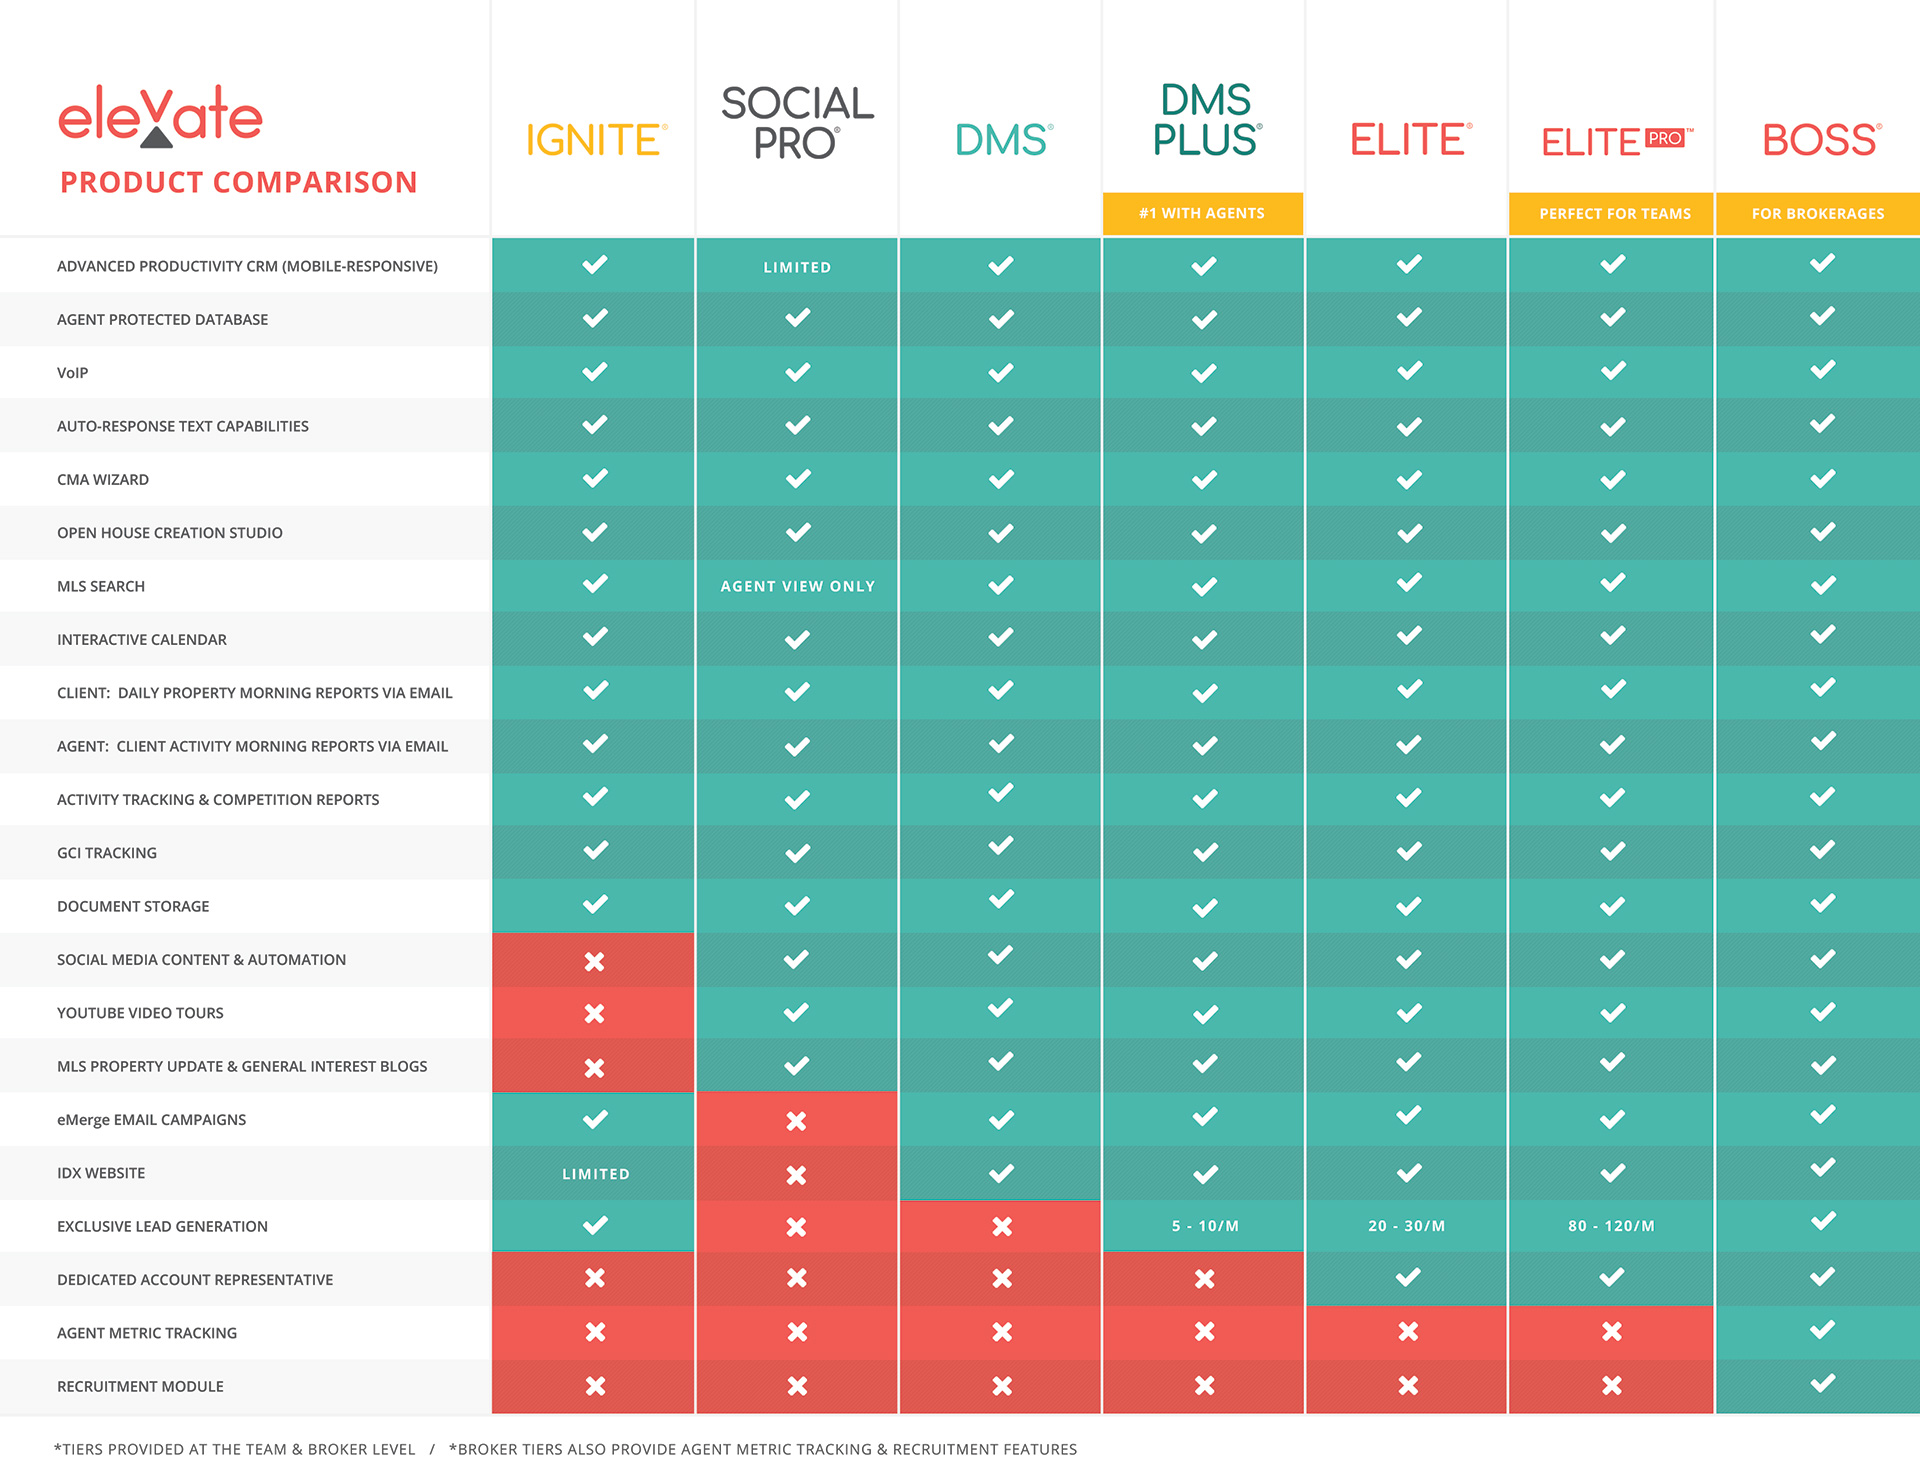
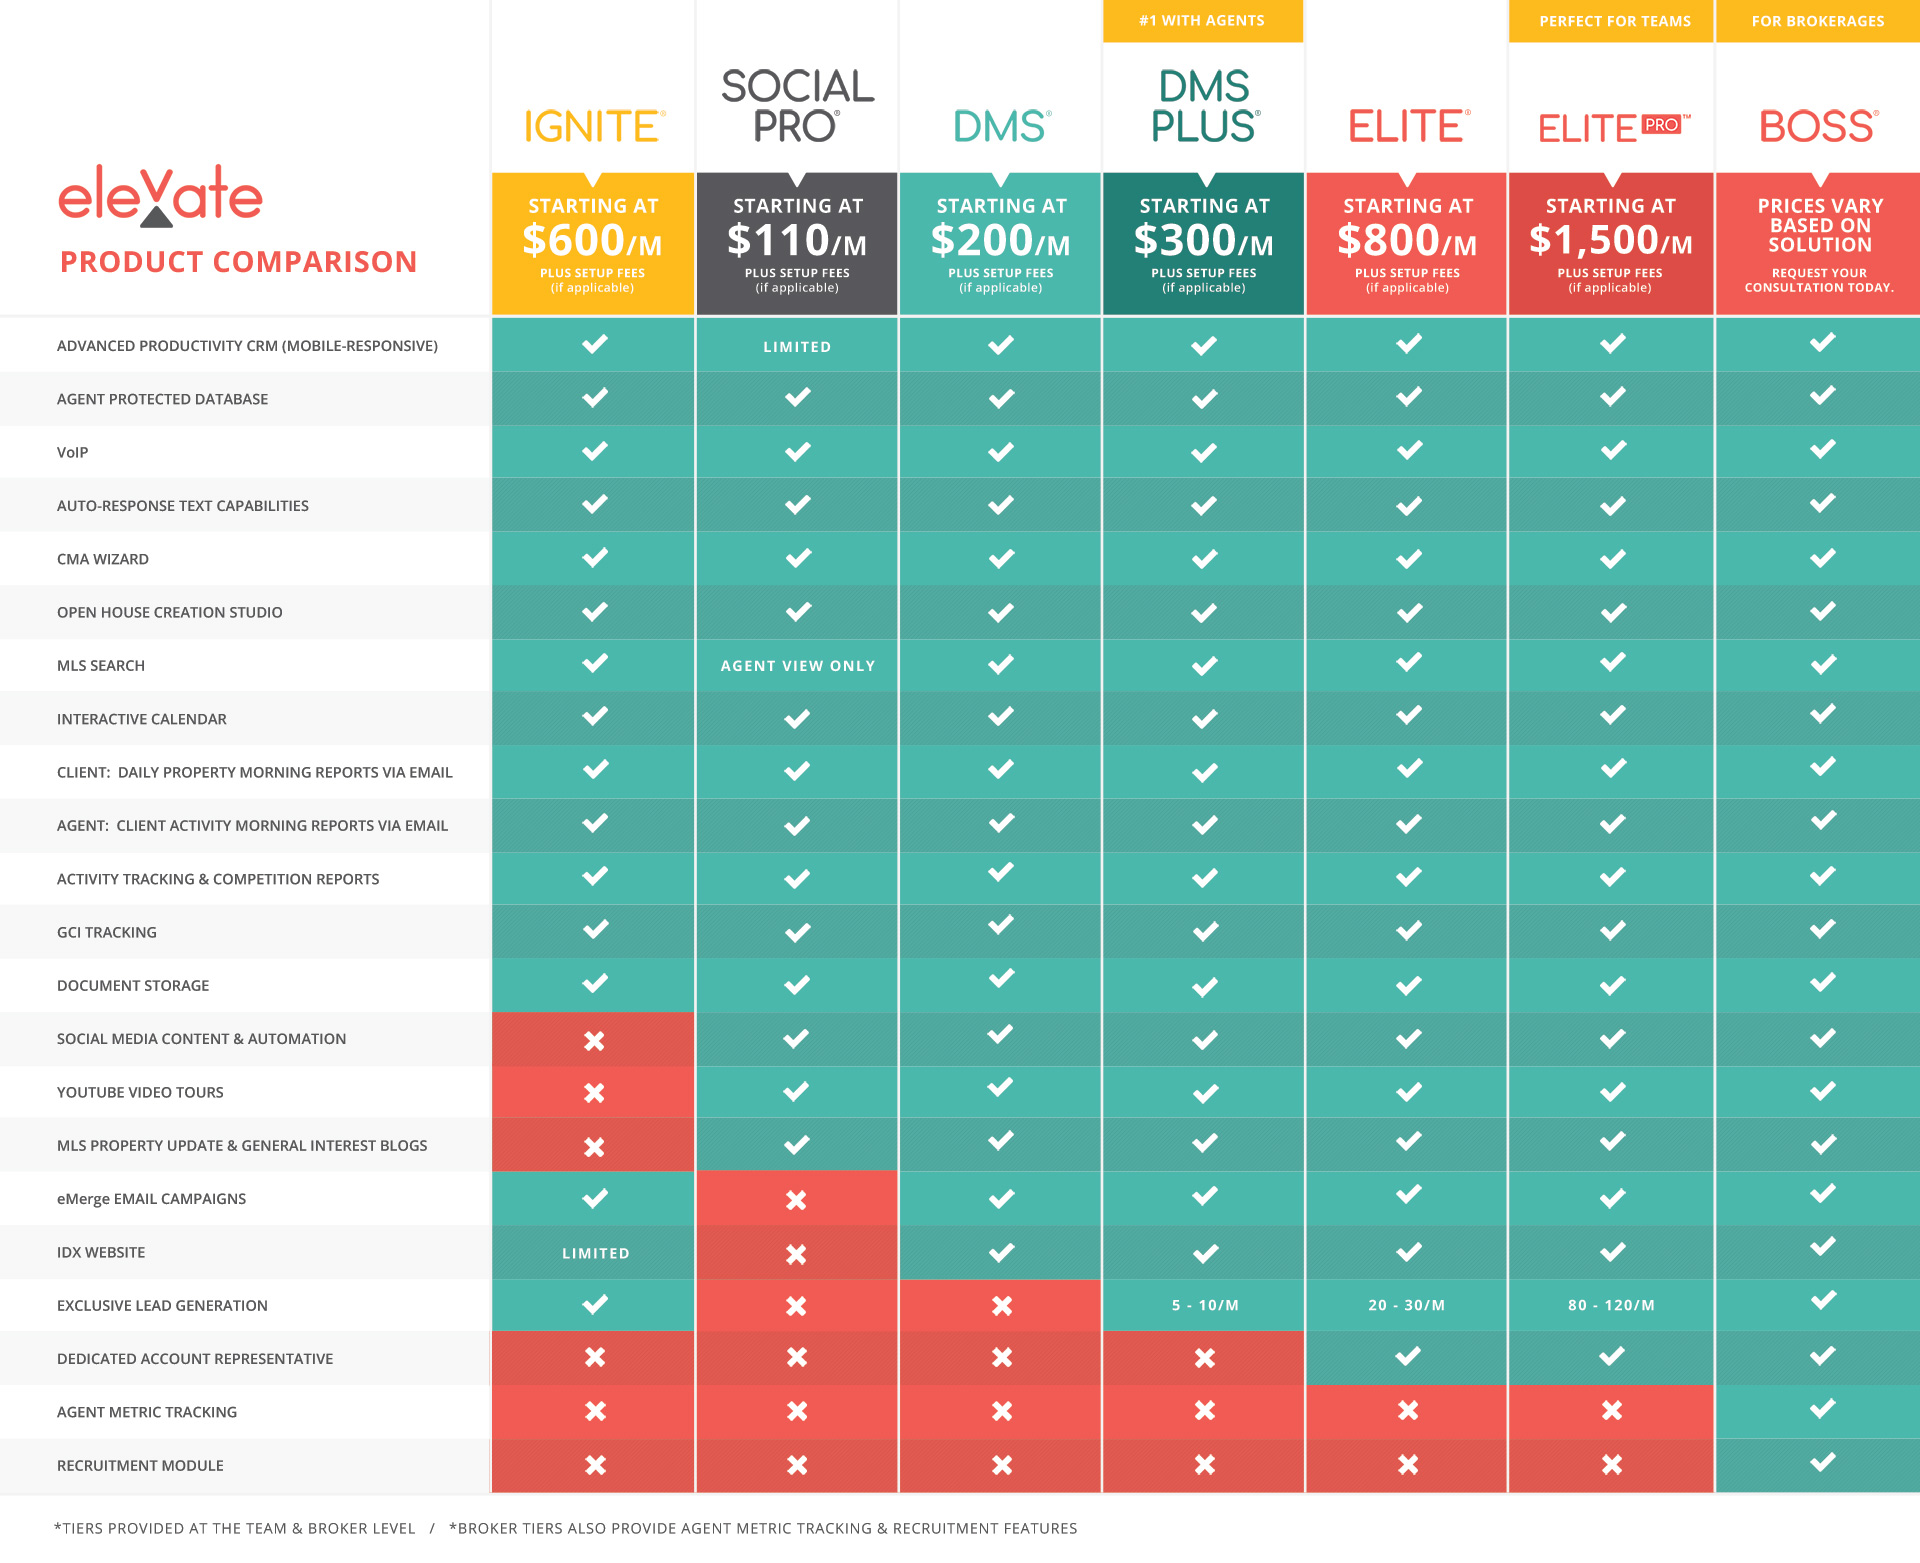
price adds to site

diff --git a/src/pages/elevatedms.js b/src/pages/elevatedms.js
@@ -8,6 +8,7 @@ import FormProduct from "../components/FormProduct";
 import Dmsbg from "../images/dmsbg.jpg";
 import Fadebg from "../images/fadebg.jpg";
 import Dmslogo from "../images/dmslogo.png";
+import Dmsprice from "../images/dms_price.png";
 import Dmsstar from "../images/dmsstar.png";
 import Quote from "../images/quote.png";
 import Sp1 from "../images/sp1.png";
@@ -49,16 +50,24 @@ const Dms = ({ children, classes, data, tags }) => {
 
       <div className={classes.top}  style={{paddingBottom:"50px",}}>
 
-             <div className={classes.column2} style={{ textAlign: "center", paddingBottom: "10px" }}>
+
+      <div className={classes.column3} style={{ textAlign: "center", paddingBottom: "10px" }}>
+      <img src={Dmsprice} width="100%"  style={{maxWidth:"280px"}} />
+            </div>
+      
+
+             <div className={classes.column3} style={{ textAlign: "center", paddingBottom: "10px" }}>
                  <a href="#demo" className={classes.buttonLink}>Request Demo</a>
             </div>
+
+            
 {/*
             <div className={classes.column3} style={{ textAlign: "center", paddingBottom: "10px" }}>
                 <a target="_blank" href="https://elmstreettechnology.recurly.com/subscribe/edigitalmarketingsystem" className={classes.buttonLink}>Subscribe Today</a>
             </div>
             */}
 
-            <div className={classes.column2} style={{ textAlign: "center", paddingBottom: "10px" }}>
+            <div className={classes.column3} style={{ textAlign: "center", paddingBottom: "10px" }}>
                 <a target="_blank" href="/compare_products" className={classes.buttonLink}>Compare Products</a>
             </div>
 
@@ -287,6 +296,7 @@ export default withStyles((theme) => ({
     alignItems: "top",
   },
 
+
   heading: {
     fontSize: "33px",
     fontWeight: "700",
@@ -323,7 +333,8 @@ export default withStyles((theme) => ({
     maxWidth: "100%",
     paddingRight:"10px",
     paddingLeft:"10px",
-    verticalAlign: "top",
+    verticalAlign: "center",
+    alignItems: "center",
   },
 
   bold:{
@@ -375,6 +386,10 @@ export default withStyles((theme) => ({
     borderRadius: "4px",
     margin: "16px auto",
     marginBottom: "10px",
+
+    [theme.breakpoints[900]]: {
+      marginTop: "34px",
+  },
   },
 
   flexContainer: {

diff --git a/src/pages/socialpro.js b/src/pages/socialpro.js
@@ -7,6 +7,7 @@ import BgSectionExternal3 from "../components/BgSectionExternal3";
 import Sprobg from "../images/sprobg.jpg";
 import Fadebg from "../images/fadebg.jpg";
 import Sprologo from "../images/sprologo.png";
+import Sproprice from "../images/sp_price.png";
 import Quote from "../images/quote.png";
 import Sp1 from "../images/sp1.png";
 import Sp2 from "../images/sp2.png";
@@ -19,13 +20,13 @@ import FormProduct from "../components/FormProduct";
 
 const Socialpro = ({ children, classes, data, tags }) => {
   const postNode = {
-      title: `Elevate Social ProTM - ${config.siteTitle}`,
+      title: `Elevate Social Pro - ${config.siteTitle}`,
   };
 
   return (
 <div className={classes.root}>
       <Helmet>
-              <title>{`Elevate Social ProTM - ${config.siteTitle}`}</title>
+              <title>{`Elevate Social Pro - ${config.siteTitle}`}</title>
       </Helmet>
       <SEO postNode={postNode} pagePath="Socialpro" customTitle />
 
@@ -42,7 +43,12 @@ const Socialpro = ({ children, classes, data, tags }) => {
 
       <div className={classes.top}  style={{paddingBottom:"50px",}}>
 
-             <div className={classes.column2} style={{ textAlign: "center", paddingBottom: "10px" }}>
+
+      <div className={classes.column3} style={{ textAlign: "center", paddingBottom: "10px" }}>
+      <img src={Sproprice} width="100%"  style={{maxWidth:"280px"}} />
+            </div>
+
+             <div className={classes.column3} style={{ textAlign: "center", paddingBottom: "10px" }}>
                  <a href="#demo" className={classes.buttonLink}>Request Demo</a>
             </div>
 
@@ -52,7 +58,7 @@ const Socialpro = ({ children, classes, data, tags }) => {
             </div>
             */}
 
-            <div className={classes.column2} style={{ textAlign: "center", paddingBottom: "10px" }}>
+            <div className={classes.column3} style={{ textAlign: "center", paddingBottom: "10px" }}>
                 <a target="_blank" href="/compare_products" className={classes.buttonLink}>Compare Products</a>
             </div>
 
@@ -329,6 +335,10 @@ export default withStyles((theme) => ({
     borderRadius: "4px",
     margin: "16px auto",
     marginBottom: "10px",
+
+    [theme.breakpoints[900]]: {
+      marginTop: "34px",
+    },
   },
 
   flexContainer: {

diff --git a/src/pages/elite.js b/src/pages/elite.js
@@ -8,6 +8,7 @@ import FormProduct from "../components/FormProduct";
 import Elitebg from "../images/elitebg.jpg";
 import Fadebg from "../images/fadebg.jpg";
 import Elitelogo from "../images/elitelogo.png";
+import Eliteprice from "../images/elite_price.png";
 import Elitestar from "../images/elitestar.png";
 import Quote from "../images/quote.png";
 import Ppc from "../images/prodppc.png";
@@ -50,7 +51,11 @@ const Elite = ({ children, classes, data, tags }) => {
 
       <div className={classes.top}  style={{paddingBottom:"50px",}}>
 
-             <div className={classes.column2} style={{ textAlign: "center", paddingBottom: "10px" }}>
+      <div className={classes.column3} style={{ textAlign: "center", paddingBottom: "10px" }}>
+      <img src={Eliteprice} width="100%"  style={{maxWidth:"280px"}} />
+            </div>
+
+             <div className={classes.column3} style={{ textAlign: "center", paddingBottom: "10px" }}>
                  <a href="#demo" className={classes.buttonLink}>Request Demo</a>
             </div>
 {/*
@@ -58,7 +63,7 @@ const Elite = ({ children, classes, data, tags }) => {
                 <a target="_blank" href="https://elmstreettechnology.recurly.com/subscribe/elevateelite" className={classes.buttonLink}>Subscribe Today</a>
             </div>
 */}
-            <div className={classes.column2} style={{ textAlign: "center", paddingBottom: "10px" }}>
+            <div className={classes.column3} style={{ textAlign: "center", paddingBottom: "10px" }}>
                 <a target="_blank" href="/compare_products" className={classes.buttonLink}>Compare Products</a>
             </div>
 
@@ -398,6 +403,10 @@ export default withStyles((theme) => ({
     borderRadius: "4px",
     margin: "16px auto",
     marginBottom: "10px",
+
+    [theme.breakpoints[900]]: {
+      marginTop: "34px",
+    },
   },
 
   flexContainer: {

diff --git a/src/pages/elitepro.js b/src/pages/elitepro.js
@@ -8,6 +8,7 @@ import FormProduct from "../components/FormProduct";
 import Eliteprobg from "../images/eliteprobg.jpg";
 import Fadebg from "../images/fadebg.jpg";
 import Eliteprologo from "../images/eliteprologo.png";
+import Eliteproprice from "../images/elitepro_price.png";
 import Eprostar from "../images/eprostar.png";
 import Quote from "../images/quote.png";
 import Ppc from "../images/prodppc.png";
@@ -53,7 +54,12 @@ const Elitepro = ({ children, classes, data, tags }) => {
 
       <div className={classes.top}  style={{paddingBottom:"50px",}}>
 
-             <div className={classes.column2} style={{ textAlign: "center", paddingBottom: "10px" }}>
+
+      <div className={classes.column3} style={{ textAlign: "center", paddingBottom: "10px" }}>
+      <img src={Eliteproprice} width="100%"  style={{maxWidth:"280px"}} />
+            </div>
+
+             <div className={classes.column3} style={{ textAlign: "center", paddingBottom: "10px" }}>
                  <a href="#demo" className={classes.buttonLink}>Request Demo</a>
             </div>
 {/*
@@ -62,7 +68,7 @@ const Elitepro = ({ children, classes, data, tags }) => {
             </div>
             */}
 
-            <div className={classes.column2} style={{ textAlign: "center", paddingBottom: "10px" }}>
+            <div className={classes.column3} style={{ textAlign: "center", paddingBottom: "10px" }}>
                 <a target="_blank" href="/compare_products" className={classes.buttonLink}>Compare Products</a>
             </div>
 
@@ -428,6 +434,10 @@ export default withStyles((theme) => ({
     borderRadius: "4px",
     margin: "16px auto",
     marginBottom: "10px",
+
+    [theme.breakpoints[900]]: {
+      marginTop: "34px",
+    },
   },
 
   flexContainer: {

diff --git a/src/pages/dmsplus.js b/src/pages/dmsplus.js
@@ -8,6 +8,7 @@ import FormProduct from "../components/FormProduct";
 import Dmsplusbg from "../images/dmsplusbg.jpg";
 import Fadebg from "../images/fadebg.jpg";
 import Dmspluslogo from "../images/dmspluslogo.png";
+import Dmsplusprice from "../images/dmsplus_price.png";
 import Plusstar from "../images/plusstar.png";
 import Quote from "../images/quote.png";
 import Ppc from "../images/prodppc.png";
@@ -50,7 +51,11 @@ const Dmsplus = ({ children, classes, data, tags }) => {
 
       <div className={classes.top}  style={{paddingBottom:"50px",}}>
 
-             <div className={classes.column2} style={{ textAlign: "center", paddingBottom: "10px" }}>
+      <div className={classes.column3} style={{ textAlign: "center", paddingBottom: "10px" }}>
+      <img src={Dmsplusprice} width="100%"  style={{maxWidth:"280px"}} />
+            </div>
+
+             <div className={classes.column3} style={{ textAlign: "center", paddingBottom: "10px" }}>
                  <a href="#demo" className={classes.buttonLink}>Request Demo</a>
             </div>
 {/*
@@ -59,7 +64,7 @@ const Dmsplus = ({ children, classes, data, tags }) => {
             </div>
             */}
 
-            <div className={classes.column2} style={{ textAlign: "center", paddingBottom: "10px" }}>
+            <div className={classes.column3} style={{ textAlign: "center", paddingBottom: "10px" }}>
                 <a target="_blank" href="/compare_products" className={classes.buttonLink}>Compare Products</a>
             </div>
 
@@ -406,6 +411,10 @@ export default withStyles((theme) => ({
     borderRadius: "4px",
     margin: "16px auto",
     marginBottom: "10px",
+
+    [theme.breakpoints[900]]: {
+      marginTop: "34px",
+    },
   },
 
   flexContainer: {

diff --git a/src/pages/ignite.js b/src/pages/ignite.js
@@ -8,6 +8,7 @@ import FormProduct from "../components/FormProduct";
 import Ignitebg from "../images/ignitebg.jpg";
 import Fadebg from "../images/fadebg.jpg";
 import Ignitelogo from "../images/ignitelogo.png";
+import Igniteprice from "../images/ignite_price.png";
 import Ignstar from "../images/ignstar.png";
 import Quote from "../images/quote.png";
 import Sp1 from "../images/sp1.png";
@@ -46,12 +47,17 @@ const Ignite = ({ children, classes, data, tags }) => {
 
       <div className={classes.top}  style={{paddingBottom:"50px",}}>
 
-             <div className={classes.column2} style={{ textAlign: "center", paddingBottom: "10px" }}>
+
+      <div className={classes.column3} style={{ textAlign: "center", paddingBottom: "10px" }}>
+      <img src={Igniteprice} width="100%"  style={{maxWidth:"280px"}} />
+            </div>
+
+             <div className={classes.column3} style={{ textAlign: "center", paddingBottom: "10px" }}>
                  <a href="#demo" className={classes.buttonLink}>Request Demo</a>
             </div>
 
 
-            <div className={classes.column2} style={{ textAlign: "center", paddingBottom: "10px" }}>
+            <div className={classes.column3} style={{ textAlign: "center", paddingBottom: "10px" }}>
                 <a target="_blank" href="/compare_products" className={classes.buttonLink}>Compare Products</a>
             </div>
 
@@ -321,6 +327,10 @@ export default withStyles((theme) => ({
     borderRadius: "4px",
     margin: "16px auto",
     marginBottom: "10px",
+
+    [theme.breakpoints[900]]: {
+      marginTop: "34px",
+    },
   },
 
   flexContainer: {

diff --git a/src/pages/boss.js b/src/pages/boss.js
@@ -57,6 +57,17 @@ const Boss = ({ children, classes, data, tags }) => {
 
             <div style={{paddingBottom:"50px",}}>
 
+
+            <Container>
+
+<div style={{textAlign:"center", paddingRight:"35px", paddingLeft:"35px", paddingBottom:"25px", paddingTop:"20px"}}>
+    <div className={classes.Heading3}>Prices Vary Based on Solution.</div>
+    <div className={classes.subtext3}>Request Your Consultation Today.</div>     
+    
+</div>
+</Container>
+           
+
              <div style={{ textAlign: "center", paddingBottom: "10px" }}>
                  <a href="#demo" className={classes.buttonLink}>Request Demo</a>
             </div>
@@ -346,6 +357,13 @@ export default withStyles((theme) => ({
     fontWeight: "700",
     lineHeight: "24px",
     color: "#777777",
+  },
+
+  subtext3: {
+    fontSize: "16px",
+    fontWeight: "300",
+    lineHeight: "24px",
+    color: "#f7f7f7",
   },
 
   column2:{

diff --git a/src/components/FormBright.js b/src/components/FormBright.js
@@ -259,7 +259,7 @@ class FormBright extends Component {
                 component={CheckboxGroup}
                 items={[
                   {
-                    label: "Elevate BOSS™ for my brokerage",
+                    label: "Elevate BOSS® for my brokerage",
                     value: "Elevate BOSS for my brokerage",
                   },
                   {
@@ -267,7 +267,7 @@ class FormBright extends Component {
                     value: "Lead generation solutions for my brokerage",
                   },
                   {
-                    label: "Elevate BOSS™’s recruitment program",
+                    label: "Elevate BOSS®’s recruitment program",
                     value: "Elevate BOSS’s recruitment program",
                   },
                   {
